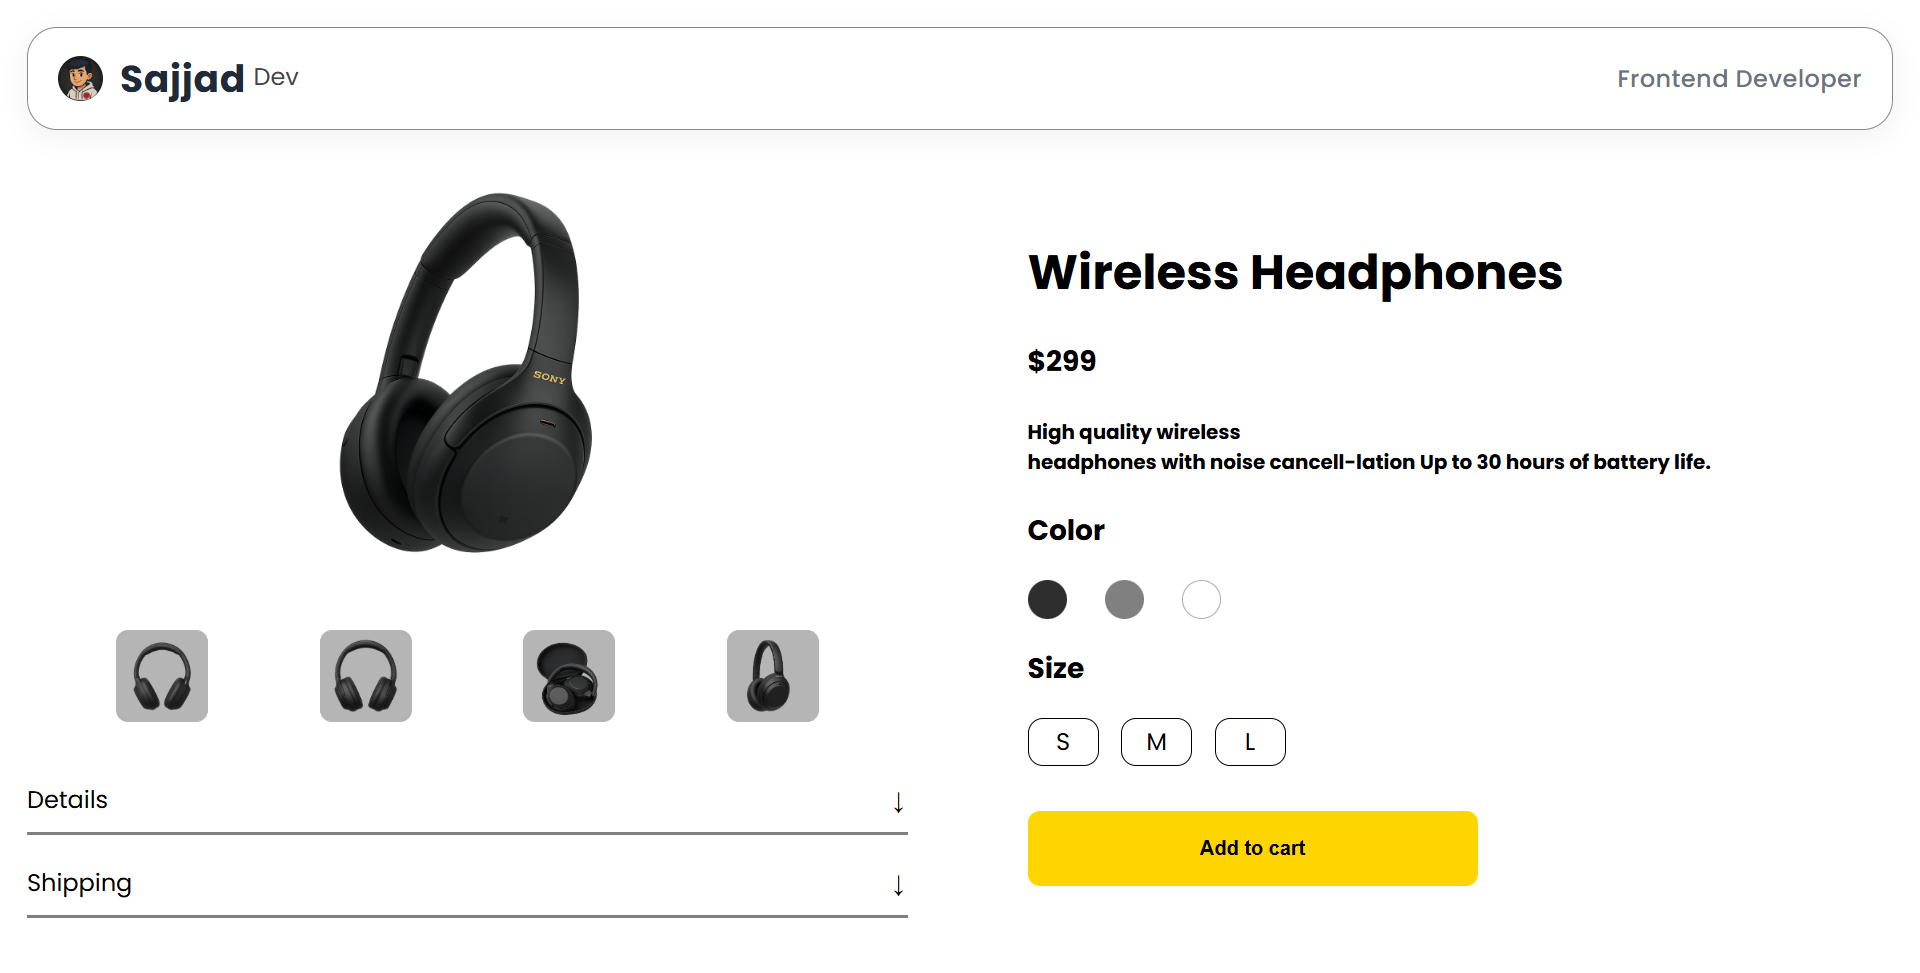
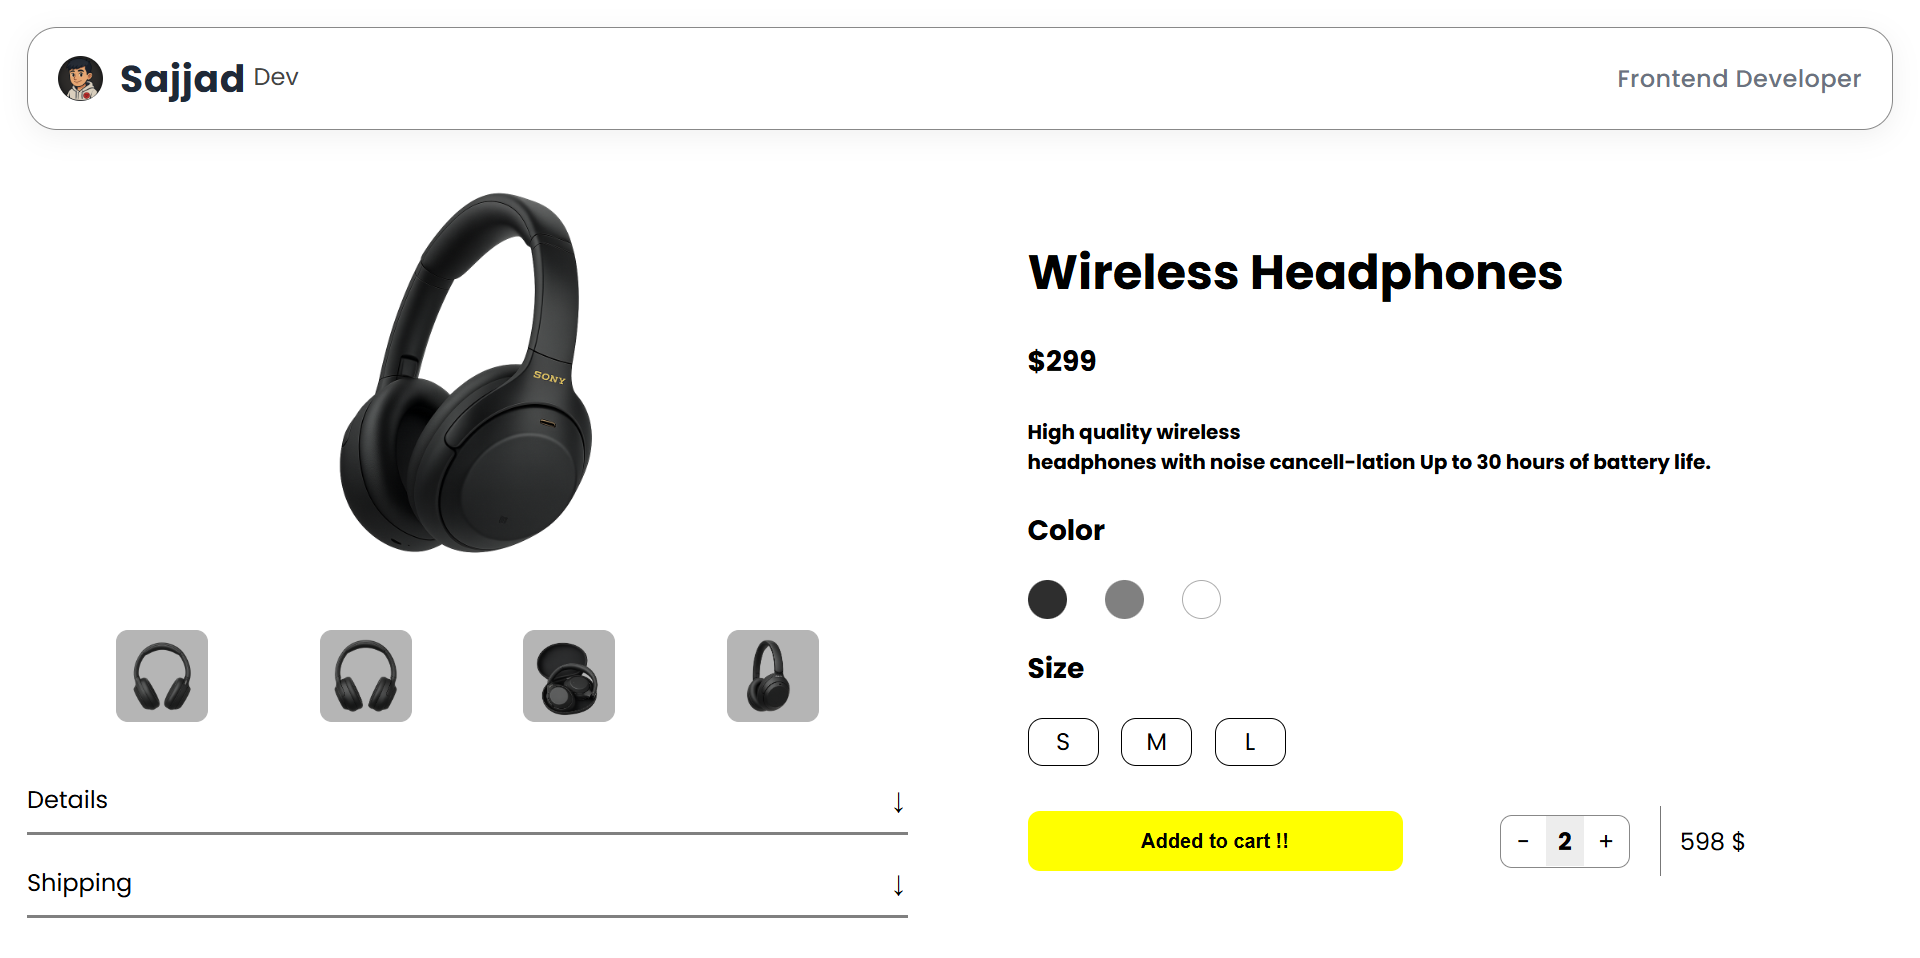
update

diff --git a/style.css b/style.css
@@ -2,6 +2,7 @@
 
 body {
   font-family: "poppins", sans-serif;
+  user-select: none;
 }
 
 .poppins-thin {
@@ -170,7 +171,8 @@ body {
   display: grid;
   grid-template-columns: repeat(2, 1fr);
   grid-template-rows: 1fr;
-  gap: 50px;
+  gap: 30px;
+  padding: 20px;
 }
 
 .img-section {
@@ -262,7 +264,7 @@ body {
 
 .product-color input:checked + label {
   border-color: black;
-  box-shadow: 0px 4px 6px rgb(110, 110, 110);
+  box-shadow: 0px 3px 3px rgb(110, 110, 110);
 }
 
 .product-color .white {
@@ -319,8 +321,8 @@ body {
 }
 
 .product-size input:checked + label {
-  background-color: rgb(212, 212, 212);
-  box-shadow: 0px 4px 6px gray;
+  background-color: rgb(227, 227, 227);
+  box-shadow: 0px 3px 3px rgb(171, 171, 171);
 }
 
 .product-size label:hover {
@@ -334,8 +336,8 @@ body {
 
 .product-info button {
   font-weight: bolder;
-  width: 300px;
-  height: 50px;
+  width: 250px;
+  height: 40px;
   margin: 30px 0px;
   padding: 5px;
   color: black;
@@ -350,14 +352,81 @@ body {
   cursor: pointer;
 }
 
+.btn {
+  display: flex;
+  justify-content: start;
+  align-items: center;
+  gap: 5px;
+}
+
+.quantity {
+  display: flex;
+  justify-content: center;
+  align-items: center;
+  height: 34px;
+  margin: auto;
+  margin-right: 15px;
+  margin-left: 60px;
+  border: 1px solid #888;
+  border-radius: 8px;
+}
+
+.decrease {
+  display: flex;
+  justify-content: center;
+  align-items: center;
+  width: 10px;
+  padding: 0px 10px;
+  cursor: pointer;
+}
+
+.increase {
+  display: flex;
+  justify-content: center;
+  align-items: center;
+  width: 10px;
+  padding: 0px 10px;
+  cursor: pointer;
+}
+
+.quantityNum {
+  text-align: center;
+  font-weight: bolder;
+  background-color: #ededed;
+  width: 15px;
+  height: auto;
+  padding: 5px;
+}
+
+.price {
+  display: flex;
+  justify-content: center;
+  align-items: center;
+  width: 70px;
+  height: 47px;
+  border-left: 1px solid #777;
+}
+
 @media (max-width: 1024px) {
   .img-section .main-img img {
-    width: 70%;
+    width: 100%;
+  }
+
+  .quantity {
+    margin-left: 15px;
   }
 }
 
 @media (max-width: 768px) {
   .product-card {
     display: block;
+  }
+
+  .product-info button {
+    width: 190px;
+  }
+
+  .price {
+    padding: 0px 10px;
   }
 }

diff --git a/index.html b/index.html
@@ -120,8 +120,47 @@
           <input type="radio" name="Size" id="larg" />
           <label for="larg">L</label>
         </div>
-        <button>Add to cart</button>
+        <div class="btn">
+          <button class="addToCart">Add to cart</button>
+          <div class="quantity">
+            <span class="decrease">-</span>
+            <p class="quantityNum">0</p>
+            <span class="increase">+</span>
+          </div>
+          <span class="price">0 $</span>
+        </div>
       </div>
     </div>
+    <script>
+      const btn = document.querySelector(".addToCart");
+      btn.addEventListener("click", () => {
+        btn.textContent = "Added to cart !!";
+        btn.style.backgroundColor = "yellow";
+      });
+
+      let x = 0;
+      const increaseButton = document.querySelector(".increase");
+      const DecreaseButton = document.querySelector(".decrease");
+      const counterP = document.querySelector(".quantityNum");
+
+      function updatePrice() {
+        const price = document.querySelector(".price");
+        price.textContent = `${x * 299} $`;
+      }
+
+      increaseButton.addEventListener("click", () => {
+        x++;
+        counterP.textContent = x;
+        updatePrice();
+      });
+
+      DecreaseButton.addEventListener("click", () => {
+        if (x > 0) {
+          x--;
+          counterP.textContent = x;
+          updatePrice();
+        }
+      });
+    </script>
   </body>
 </html>
